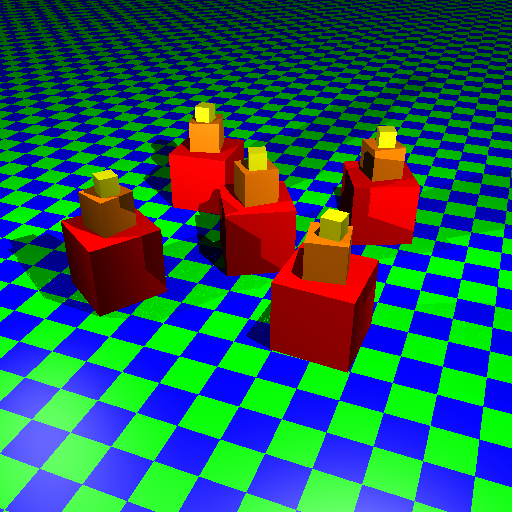
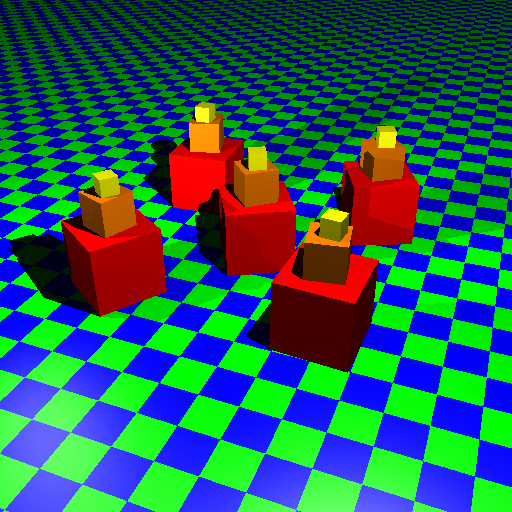
objectives 1-7 done

diff --git a/src/comp557/a4/Scene.java b/src/comp557/a4/Scene.java
@@ -60,7 +60,10 @@ public class Scene {
 				for (Intersectable surface : surfaceList) {
 					// TODO: Objective 2: test for intersection with scene surfaces
                     surface.intersect(ray, intersectResult);
-                    
+				}
+                    Ray shadowRay = new Ray();
+					IntersectResult shadowResult = new IntersectResult();
+					
                     // TODO: Objective 3: compute the shaded result for the intersection point (perhaps requiring shadow rays)
                     
     				if(intersectResult.t != Double.POSITIVE_INFINITY) {	
@@ -69,39 +72,43 @@ public class Scene {
     					shading.x += ambient.x * intersectResult.material.diffuse.x;
     					shading.y += ambient.y * intersectResult.material.diffuse.y;
     					shading.z += ambient.z * intersectResult.material.diffuse.z;
-    					
+    					intersectResult.n.normalize();
+    					 
     					for(Light light: lights.values()){
 
-    						Ray shadowRay = new Ray();
-    						IntersectResult shadowResult = new IntersectResult();
-    							
+    						
     						if(!SceneNode.nodeMap.containsKey("root") || !inShadow(intersectResult, light, SceneNode.nodeMap.get("root"), shadowResult, shadowRay)){
-    							//Vector from point to light source
-    							Vector3d l = new Vector3d(light.from);
-    							l.sub(intersectResult.p);
-    							l.normalize();
+    							Vector3d l = new Vector3d();
+                                l.sub(light.from, intersectResult.p);
+                                l.normalize();
 
-    							//Lambertian Shading
-    							shading.x += (float)(light.color.x*light.power*intersectResult.material.diffuse.x*Math.max(0, intersectResult.n.dot(l)));
-    							shading.y += (float)(light.color.y*light.power*intersectResult.material.diffuse.y*Math.max(0, intersectResult.n.dot(l)));
-    							shading.z += (float)(light.color.z*light.power*intersectResult.material.diffuse.z*Math.max(0, intersectResult.n.dot(l)));
+                                Vector3d v = new Vector3d();
+                                v.sub(cam.from, intersectResult.p);
+                                v.normalize();
 
-    							//Bisector vector
-    							Vector3d h1 = new Vector3d(ray.viewDirection);
-    							h1.negate();
-    							h1.add(l);
-    							h1.normalize();
-    							
-    							//Blinn-Phong Shading
-    							shading.x += (float)(light.power * intersectResult.material.specular.x * Math.pow(Math.max(0, h1.dot(intersectResult.n)), intersectResult.material.shinyness));
-    							shading.y += (float)(light.power * intersectResult.material.specular.y * Math.pow(Math.max(0, h1.dot(intersectResult.n)), intersectResult.material.shinyness));
-    							shading.z += (float)(light.power * intersectResult.material.specular.z * Math.pow(Math.max(0, h1.dot(intersectResult.n)), intersectResult.material.shinyness));
-    						}
+                                Vector3d hlight = new Vector3d();
+                                hlight.add(l, v);
+                                hlight.normalize();
+
+                                float ndotl = (float) intersectResult.n.dot(l);
+                                float ndoth = (float) intersectResult.n.dot(hlight);
+
+                                float max1 = (0 > ndotl) ? 0 : ndotl;
+                                float max2 = (0 > ndoth) ? 0 : ndoth;
+                                max2 = (float) Math.pow(max2, intersectResult.material.shinyness);
+
+                                float Ix = (float) (light.color.x * light.power);
+                                float Iy = (float) (light.color.y * light.power);
+                                float Iz = (float) (light.color.z * light.power);
+
+                                shading.x += intersectResult.material.diffuse.x * Ix * max1 + intersectResult.material.specular.x * Ix * max2;
+                                shading.y += intersectResult.material.diffuse.y * Iy * max1 + intersectResult.material.specular.y * Iy * max2;
+                                shading.z += intersectResult.material.diffuse.z * Iz * max1 + intersectResult.material.specular.z * Iz * max2;}
     					}
     				}
     				else
     					shading.add(render.bgcolor);
-				}
+				//}
                     
                 
             	// Here is an example of how to calculate the pixel value.
@@ -185,15 +192,26 @@ public class Scene {
 	public static boolean inShadow(final IntersectResult result, final Light light, final Intersectable surface, IntersectResult shadowResult, Ray shadowRay) {
 		
 		// TODO: Objective 5: check for shdows and use it in your lighting computation
-		shadowRay.eyePoint = result.p;
-		shadowRay.viewDirection.sub(light.from,  result.p);
-		surface.intersect(shadowRay, shadowResult);
-		if(shadowResult.t != Double.POSITIVE_INFINITY ){
-			double intersectDistance = (shadowResult.p).distance(result.p);
-			if(intersectDistance > 0){
-				return true;
-			}
-		}
+
+		Vector3d d = new Vector3d(light.from);
+        d.sub(result.p);
+        d.normalize();
+
+        Point3d point = new Point3d(d);
+        point.scaleAdd(1e-9, result.p);
+
+        shadowRay.set(point, d);
+        for (Intersectable s : ((SceneNode)surface).children) {
+            s.intersect(shadowRay, shadowResult);
+            //check if blocked object is before light source
+            if( shadowResult.t > 0 && shadowResult.t != Double.POSITIVE_INFINITY) { 
+                double lenValue = Math.sqrt(Math.pow(light.from.x - point.x, 2) + Math.pow(light.from.y - point.y, 2) + Math.pow(light.from.z - point.z, 2));
+                double lenValue2 = Math.sqrt(Math.pow(shadowResult.p.x - point.x, 2) + Math.pow(shadowResult.p.y - point.y, 2) + Math.pow(shadowResult.p.z - point.z, 2));
+
+                if(lenValue2 < lenValue)
+                    return true;
+            }
+        }
 		return false;
 	}  
 }

diff --git a/src/comp557/a4/Box.java b/src/comp557/a4/Box.java
@@ -1,6 +1,7 @@
 package comp557.a4;
 
 import javax.vecmath.Point3d;
+import javax.vecmath.Vector3d;
 
 /**
  * A simple box class. A box is defined by it's lower (@see min) and upper (@see max) corner. 
@@ -22,59 +23,61 @@ public class Box extends Intersectable {
 	@Override
 	public void intersect(Ray ray, IntersectResult result) {
 		// TODO: Objective 6: intersection of Ray with axis aligned box
-		// Objective 6: intersection of Ray with axis aligned box
-				double txMin = (min.x - ray.eyePoint.x)/ray.viewDirection.x;
-				double txMax = (max.x - ray.eyePoint.x)/ray.viewDirection.x;
-				double tyMin = (min.y - ray.eyePoint.y)/ray.viewDirection.y;
-				double tyMax = (max.y - ray.eyePoint.y)/ray.viewDirection.y;
-				double tzMin = (min.z - ray.eyePoint.z)/ray.viewDirection.z;
-				double tzMax = (max.z - ray.eyePoint.z)/ray.viewDirection.z;
-				boolean txSwapped = false;
-				boolean tySwapped = false;
-				boolean tzSwapped = false;
-				if(txMin > txMax){
-					txMin = swapDouble(txMax, txMax = txMin);
-					txSwapped = true;
-				}
-				if(tyMin > tyMax){
-					tyMin = swapDouble(tyMax, tyMax = tyMin);
-					tySwapped = true;
-				}
-				if(tzMin > tzMax){
-					tzMin = swapDouble(tzMax, tzMax = tzMin);
-					tzSwapped = true;
-				}
-				double tMin = Math.max(txMin, Math.max(tyMin, tzMin));
-				double tMax = Math.min(txMax, Math.min(tyMax, tzMax));
-				if(tMin < tMax && tMin > 1e-9 && tMin < result.t){
-					result.t = tMin;
-					result.p.scaleAdd(tMin, ray.viewDirection, ray.eyePoint);
-					result.material = this.material;
-					if(txMin > Math.max(tyMin, tzMin)){
-						if(!txSwapped){
-							result.n.set(-1,0,0);
-						}else{
-							result.n.set(1,0,0);
-						}
-					}else if(tyMin > Math.max(txMin, tzMin)){
-						if(!tySwapped){
-							result.n.set(0,-1,0);
-						}else{
-							result.n.set(0,1,0);
-						}
-					}else{
-						if(!tzSwapped){
-							result.n.set(0,0,-1);
-						}else{
-							result.n.set(0, 0, 1);
-						}
-					}
+		double t0x = (min.x - ray.eyePoint.x)/ray.viewDirection.x;
+		double t1x = (max.x - ray.eyePoint.x)/ray.viewDirection.x;
+		double t0y = (min.y - ray.eyePoint.y)/ray.viewDirection.y;
+		double t1y = (max.y - ray.eyePoint.y)/ray.viewDirection.y;
+		double t0z = (min.z - ray.eyePoint.z)/ray.viewDirection.z;
+		double t1z = (max.z - ray.eyePoint.z)/ray.viewDirection.z;
 
-				}
+		double txmin = ray.viewDirection.x >= 0 ? t0x : t1x;
+		double txmax = ray.viewDirection.x >= 0 ? t1x : t0x;
+		double tymin = ray.viewDirection.y >= 0 ? t0y : t1y;
+		double tymax = ray.viewDirection.y >= 0 ? t1y : t0y;
+		double tzmin = ray.viewDirection.z >= 0 ? t0z : t1z;
+		double tzmax = ray.viewDirection.z >= 0 ? t1z : t0z;
+		
+		if(txmin > tymax || tymin > txmax)
+			return;
+		if (tymin > txmin)
+			txmin = tymin;
+		if (tymax < txmax)
+			txmax = tymax;
+
+		
+		if (txmin > tzmax || tzmin > txmax)
+			return;
+		if (tzmin > txmin)txmin = tzmin;
+		if (tzmax < txmax)txmax = tzmax;
+		if(txmin <= 0)
+			return;
+		
+
+		Point3d intersection = new Point3d();
+		ray.getPoint(txmin, intersection); 		
+		result.p = intersection;
+		result.material = this.material;
+		result.t = txmin;
+		
+		float epsilon = 0.00001f;
+		Vector3d normal = new Vector3d(intersection);
+
+		if(Math.abs(normal.x - min.x) < epsilon) 
+			normal.set(-1,0,0);
+		else if(Math.abs(normal.x - max.x) < epsilon) 
+			normal.set(1,0,0);
+		else if(Math.abs(normal.y - min.y) < epsilon) 
+			normal.set(0,-1,0);
+		else if(Math.abs(normal.y - max.y) < epsilon) 
+			normal.set(0,1,0);
+		else if(Math.abs(normal.z - min.z) < epsilon) 
+			normal.set(0,0,-1);
+		else if(Math.abs(normal.z - max.z) < epsilon) 
+			normal.set(0,0,1);
+		
+		result.n = normal;
 	}	
 
-	private double swapDouble(double a, double b){
-		return a;
-	}
+
 
 }

diff --git a/src/comp557/a4/Plane.java b/src/comp557/a4/Plane.java
@@ -29,40 +29,26 @@ public class Plane extends Intersectable {
     public void intersect( Ray ray, IntersectResult result ) {
     
         // TODO: Objective 4: intersection of ray with plane
+    	
     	double denominator = n.dot(ray.viewDirection);
+    	Vector3d vector = new Vector3d(0,0,0);
+        vector.sub(ray.eyePoint);
+    	double numerator = n.dot(vector);
     	if(denominator != 0) {
-            Vector3d vector = new Vector3d(0,0,0);
-            vector.sub(ray.eyePoint);
-            double t = (n.dot(vector)/denominator);
+            double t = numerator/denominator;
             
-
             if (t > 0 && t < result.t) { 
+                Point3d point = new Point3d(
+                		ray.eyePoint.x + t*ray.viewDirection.x,
+                		ray.eyePoint.y + t*ray.viewDirection.y,
+                		ray.eyePoint.z + t*ray.viewDirection.z);
                 result.t = t;
-                
-                double pointX = ray.eyePoint.x + t*ray.viewDirection.x;
-                double pointY = ray.eyePoint.y + t*ray.viewDirection.y;
-                double pointZ = ray.eyePoint.z + t*ray.viewDirection.z;
-                
-                Point3d point = new Point3d(pointX,pointY,pointZ);
                 result.p.set(point);
-
                 result.n.set(n);
-
-                if(material2 != null) {
-                    int x = (int) Math.floor(point.x);
-                    x = Math.abs(x);
-                    int z = (int) Math.floor(point.z);
-                    z = Math.abs(z);
-
-                    if((x+z)%2 == 0)
-                        result.material = this.material;
-                    else
-                        result.material = this.material2;
-                }
-                else
-                    result.material = this.material;
+                double x = Math.abs(Math.floor(point.x));
+                double z = Math.abs(Math.floor(point.z));
+                result.material = (material2 != null && (x+z) % 2 == 0) ? this.material : this.material2;
             }
-            
             
     	}
 	}

diff --git a/src/comp557/a4/Sphere.java b/src/comp557/a4/Sphere.java
@@ -40,34 +40,22 @@ public class Sphere extends Intersectable {
     
         // TODO: Objective 2: intersection of ray with sphere
     	
-    	Vector3d originSubCenter = new Vector3d();
-    	originSubCenter.sub(ray.eyePoint, this.center);
+    	Vector3d L = new Vector3d();
+    	L.sub(ray.eyePoint, this.center);
     	
-    	double underTheSquareRoot1 = Math.pow((2*(ray.viewDirection.dot(originSubCenter))), 2);
-    	double underTheSquareRoot2 = (-4*ray.viewDirection.lengthSquared())*(originSubCenter.lengthSquared()-Math.pow(this.radius,2));
-    	double underTheSquareRootTotal = underTheSquareRoot1 + underTheSquareRoot2;
+    	double a = ray.viewDirection.dot(ray.viewDirection); 
+    	double b = 2 * ray.viewDirection.dot(L); 
+    	double c = (L.dot(L)) - (this.radius*this.radius); 
+    	double discr = (b*b) - (4*a*c); 
+    	double quadratic = (-b - Math.sqrt(discr))/(2*a);
     	
-    	double numerator = (-2*(ray.viewDirection.dot(originSubCenter))) - Math.sqrt(underTheSquareRootTotal);
-    	
-    	double denominator = 2*(ray.viewDirection.lengthSquared());
-    	
-    	double d = (numerator/denominator);
-    	
-    	if(underTheSquareRootTotal >= 0 ) { 
-	    	if(d < result.t) {
-	    		result.t =d;
-	    		
-	    		/* The material of the intersection */
-	    		result.material = this.material;
-	    		
-	    		/** Intersection position */
-	    		ray.getPoint(result.t, result.p);
-	    		
-	    		
-	    		result.n.sub(result.p, this.center);
-	    		
-	    		result.n.normalize();
-	    	}
+    	if(discr >= 0 && quadratic < result.t) { 
+    		result.material = this.material;
+    		result.t = quadratic;
+    		ray.getPoint(result.t, result.p);
+    		
+    		result.n.sub(result.p, this.center);
+    		result.n.normalize();
     	}
     }
 }

diff --git a/src/comp557/a4/SceneNode.java b/src/comp557/a4/SceneNode.java
@@ -65,24 +65,17 @@ public class SceneNode extends Intersectable {
 
         	// TODO: do something useful here!
         	
-        	/*Minv.transpose();
-        	Minv.transform(tmpResult.n);
-        	Minv.transpose();
-        	M.transform(tmpResult.p);
+        	result.material = this.material;
+        	if(tmpResult.material != null)
+        		result.material = tmpResult.material;
         	result.n.set(tmpResult.n);
         	result.p.set(tmpResult.p); 
         	result.t = tmpResult.t;
-        	result.material = (this.material == null) ? tmpResult.material : this.material;
-        	*/
-        	result.t = tmpResult.t;
         	
-        	M.transform(tmpResult.p);
-        	result.p.set(tmpResult.p);
-        	result.n.set(tmpResult.n);
-        	result.material = (this.material == null) ? tmpResult.material : this.material;
-        	result.n.normalize();
-        	M.transform(tmpRay.eyePoint);
-        	M.transform(tmpRay.viewDirection);
+        	M.transform(result.p);
+        	Minv.transpose();
+        	Minv.transform(result.n);
+        	Minv.transpose();
         }
     }
     
